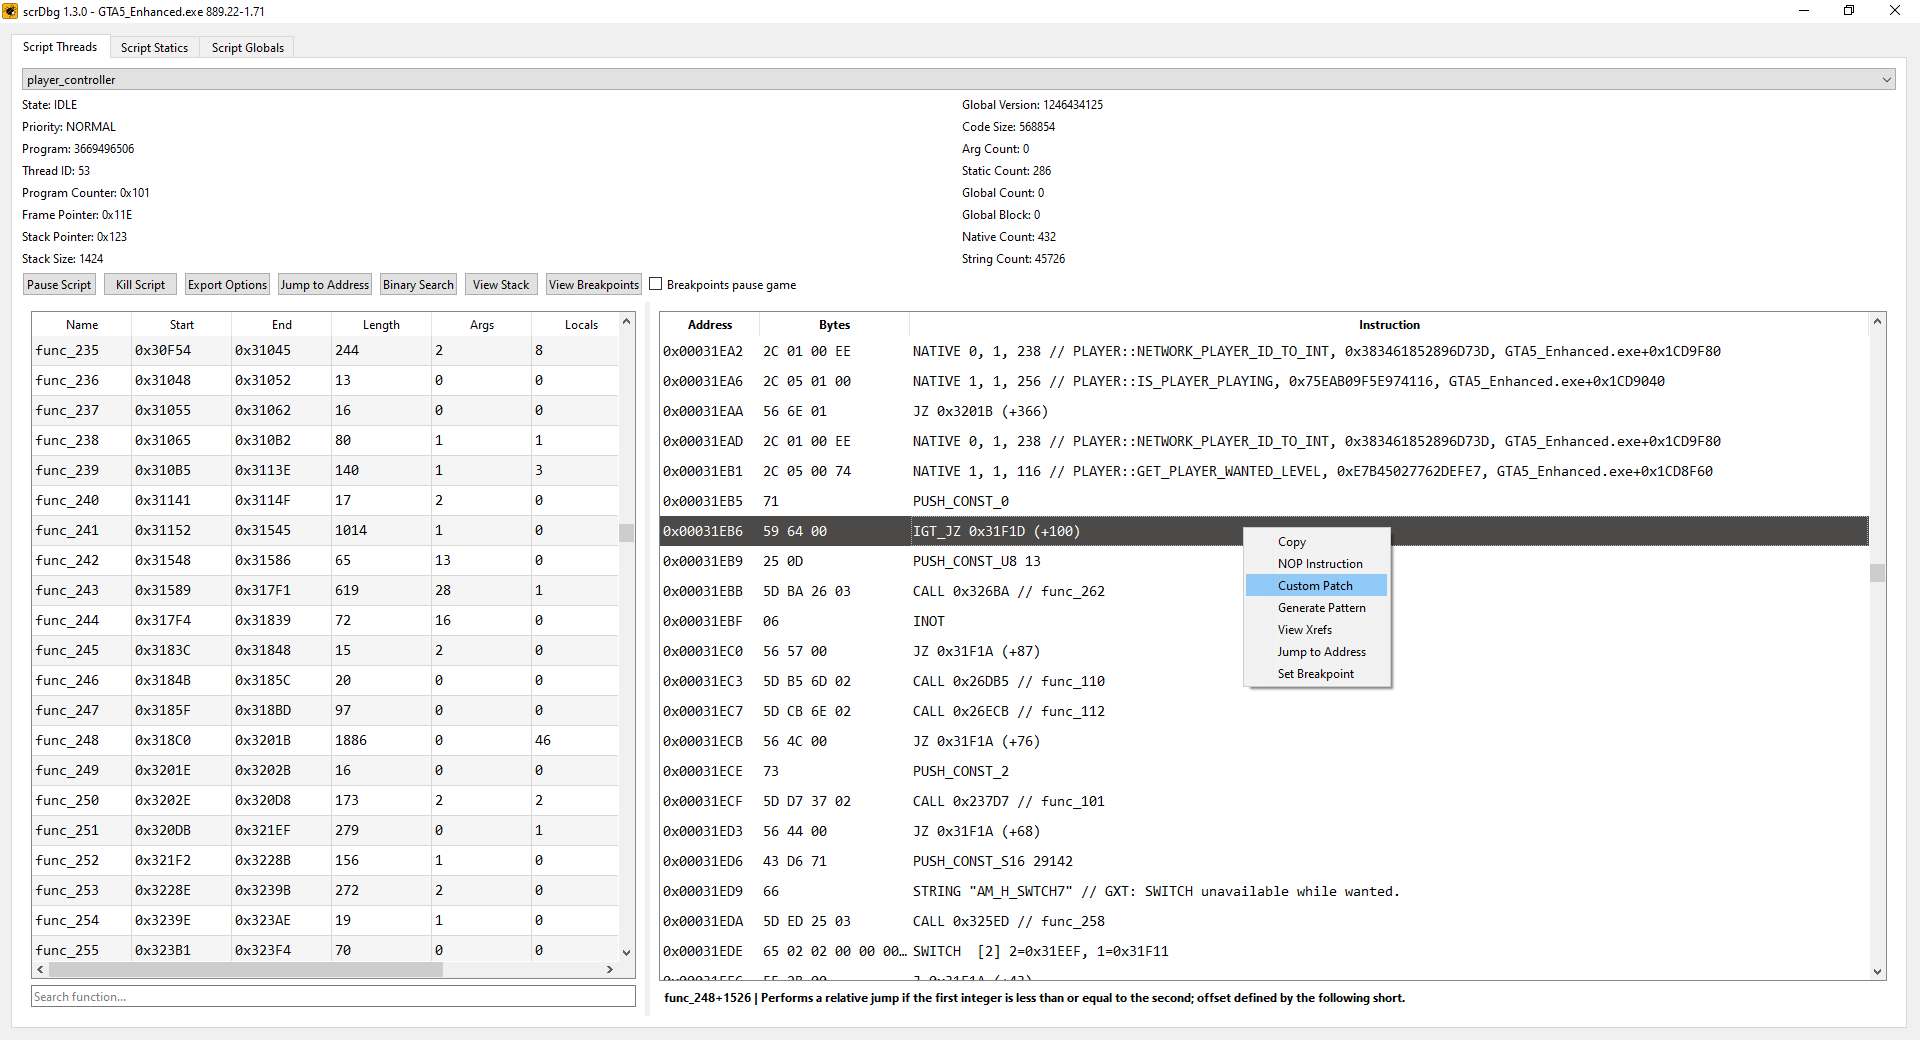
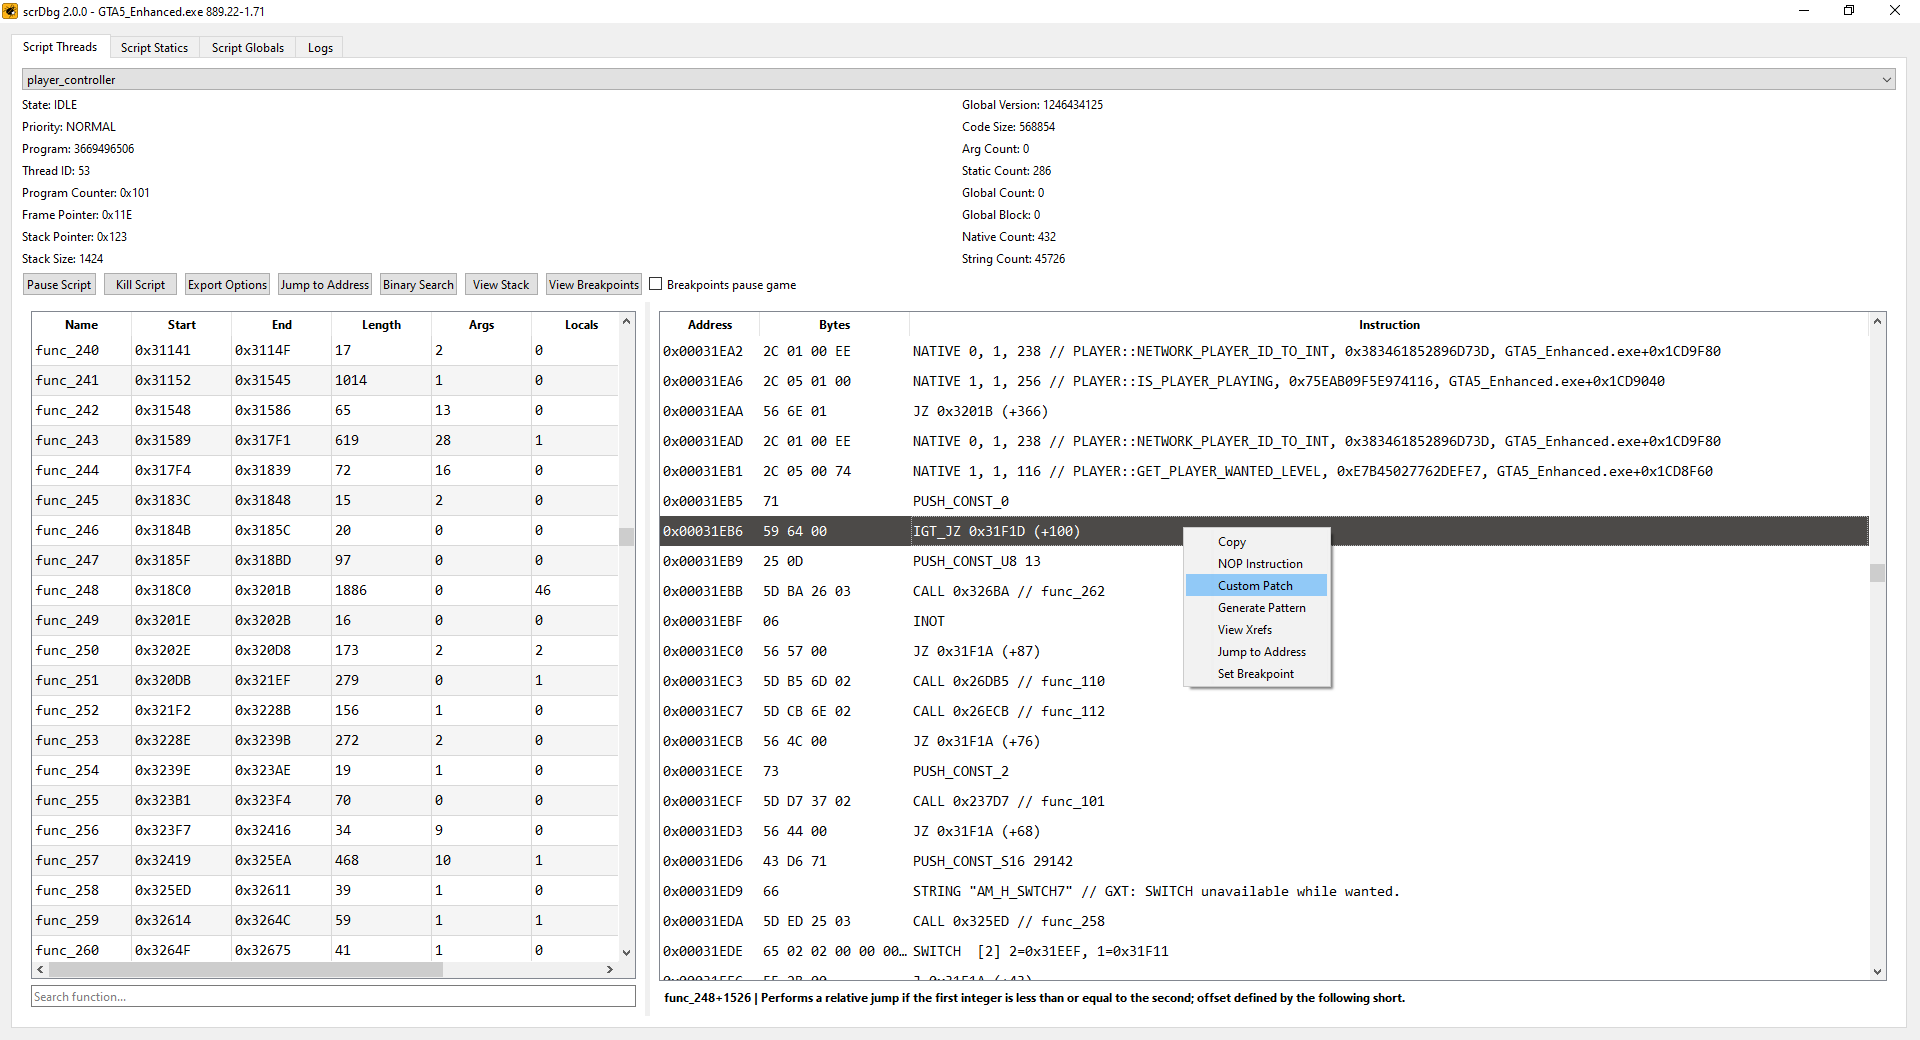
chore: bump version and update screenshots

diff --git a/src/shared/scrDbg.h b/src/shared/scrDbg.h
@@ -2,10 +2,10 @@
 
 #define NATIVES_BIN 201
 
-#define SCRDBG_FILEVERSION 1, 3, 0, 0
+#define SCRDBG_FILEVERSION 2, 0, 0, 0
 #define SCRDBG_PRODUCTVERSION SCRDBG_FILEVERSION
 
-#define SCRDBG_FILE_VERSION "1.3.0"
+#define SCRDBG_FILE_VERSION "2.0.0"
 #define SCRDBG_PRODUCT_VERSION SCRDBG_FILE_VERSION
 
 #define SCRDBG_APP_FILE_DESCRIPTION "scrDbgApp"

diff --git a/README.md b/README.md
@@ -18,12 +18,16 @@ It allows you to inspect, manipulate, and debug game scripts in real-time.
   - Edit function arguments and locals
 - View disassembly
   - Jump to a raw address
-  - Binary search
+  - Binary search (pattern, hex, decimal, float, string)
   - NOP instructions
   - Apply custom patches
   - Generate patterns
   - View xrefs
   - Set breakpoints
+- Logging
+  - Log script frame times
+  - Log native calls
+  - Log static and global writes
 - Statics editor
 - Globals editor
 
@@ -64,13 +68,29 @@ It allows you to inspect, manipulate, and debug game scripts in real-time.
   <img src="screenshots/scrDbgScreenshot8.png" alt="Screenshot 8" width="400"/>
 </p>
 
+<p align="center">
+  <img src="screenshots/scrDbgScreenshot9.png" alt="Screenshot 9" width="400"/>
+</p>
+
+<p align="center">
+  <img src="screenshots/scrDbgScreenshot10.png" alt="Screenshot 10" width="400"/>
+</p>
+
+<p align="center">
+  <img src="screenshots/scrDbgScreenshot11.png" alt="Screenshot 11" width="400"/>
+</p>
+
+<p align="center">
+  <img src="screenshots/scrDbgScreenshot12.png" alt="Screenshot 12" width="400"/>
+</p>
+
 </details>
 
 ## Usage
 
 - Disable BattlEye from Rockstar Games Launcher.
 - Launch the game.
-- Run scrDbg.exe.
+- Run `scrDbg.exe`.
 
 ## Building
 
